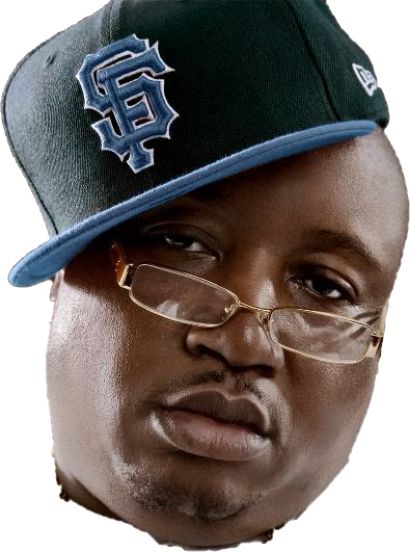
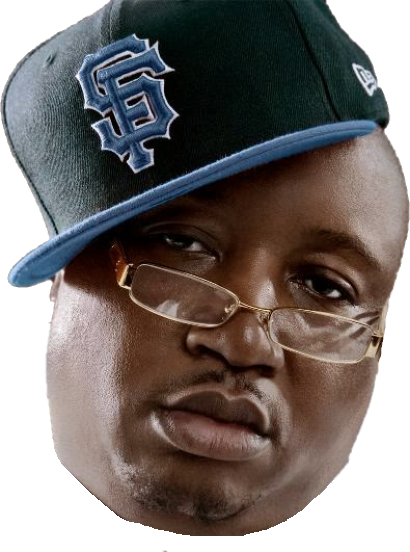
Updated Assets
Updates Assets:
nope.mp3 - similar to yep.mp3's playtime
e40.png - cleaned up face crop
Removed Assets:
images no longer necessary due to addition of flare animation. Also removed and code involved in loading removed assets.

Changed region(s): [[0.1171, 0.8007, 0.6732, 1.0], [0.6732, 0.8931, 0.7902, 0.9547]]

diff --git a/lib/asset_loader.dart b/lib/asset_loader.dart
@@ -4,8 +4,5 @@ import 'package:flare_flutter/flare_actor.dart';
 
 class E40Assets{
   var yepOrNopeAudioArray = ['nope.mp3', 'yep.mp3'];
-  static Image nope = new Image(image: new ExactAssetImage('assets/img/nope1.png'));
-  static Image yep = new Image(image: new ExactAssetImage('assets/img/yup1.png'));
-  List<Image> yepOrNopeImageArray = [nope, yep];
   List<FlareActor> yepOrNopeFlareAnimationArray = [new FlareActor("assets/flare/nope.flr", animation: "Growth",), new FlareActor("assets/flare/yep.flr" , animation: "Growth",)];
 }
